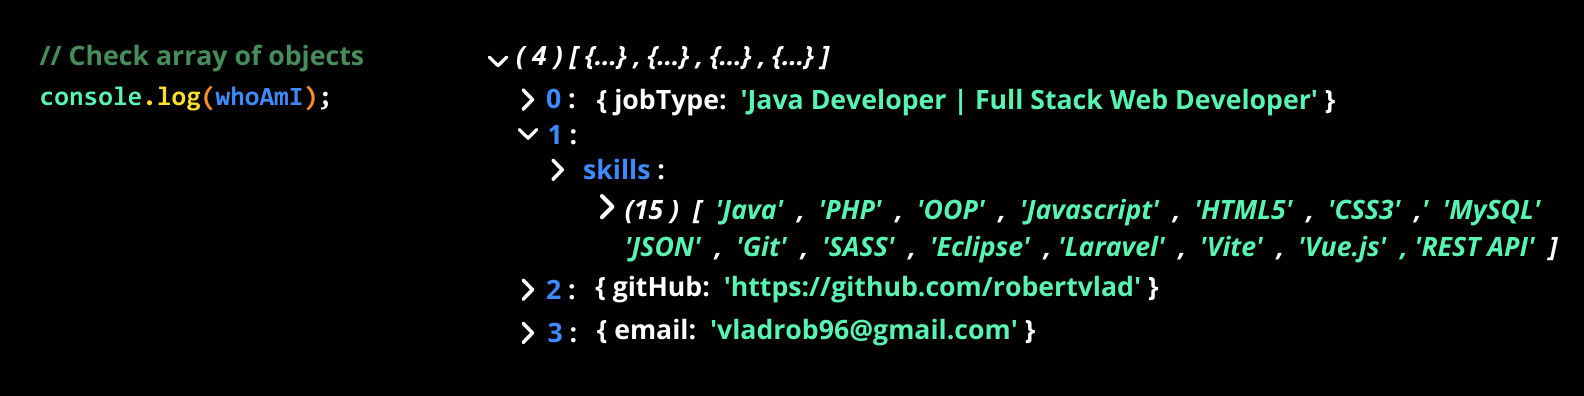
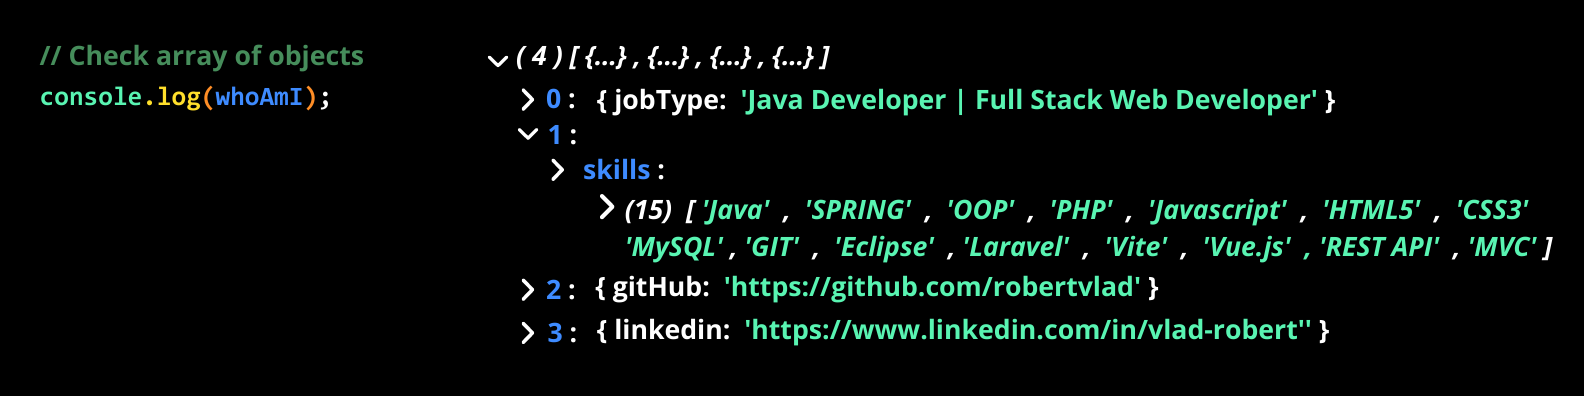
Update

Changed region(s): [[0.4021, 0.4848, 0.9899, 0.6667], [0.3712, 0.7879, 0.8352, 0.8788]]

diff --git a/README.md b/README.md
@@ -33,12 +33,7 @@
 
 - [<img align="left" alt="Robert Vlad | Linkedin" width="130px" src="https://img.shields.io/badge/LinkedIn-0077B5?style=for-the-badge&logo=linkedin&logoColor=white" />][linkedin] <strong>:rocket: Connect with me on Linkedin</strong>
 
-<br/>
-
-- [<img align="left" alt="Robert Vlad | Gmail" width="130px" src="https://img.shields.io/badge/Gmail-D14836?style=for-the-badge&logo=gmail&logoColor=white" />][gmail] <strong>⚡ This is my email!</strong>
-
 [linkedin]: https://www.linkedin.com/in/vlad-robert/
-[gmail]: https://mail.google.com/mail/?view=cm&source=mailto&to=vladrob96@gmail.com
 
 <br/>
 
@@ -70,7 +65,8 @@
 <p>
 	<ul>
 		<li>OOP</li>
-		<li>JSON</li>
+		<li>MAVEN</li>
+		<li>SPRING</li>
 		<li>ECLIPSE</li>
 		<li>REST API</li>
 	</ul>
@@ -82,10 +78,6 @@
 <h3>📝 Stats</h3>
 
 <br/>
-
-<p align="center">
-    <img src="https://github-readme-stats.vercel.app/api/top-langs/?username=robertvlad&layout=compact" width="420" alt="robertvlad" />
-</p>
 
 <p align="center">Thanks for visiting my account :wink:</p>
 
